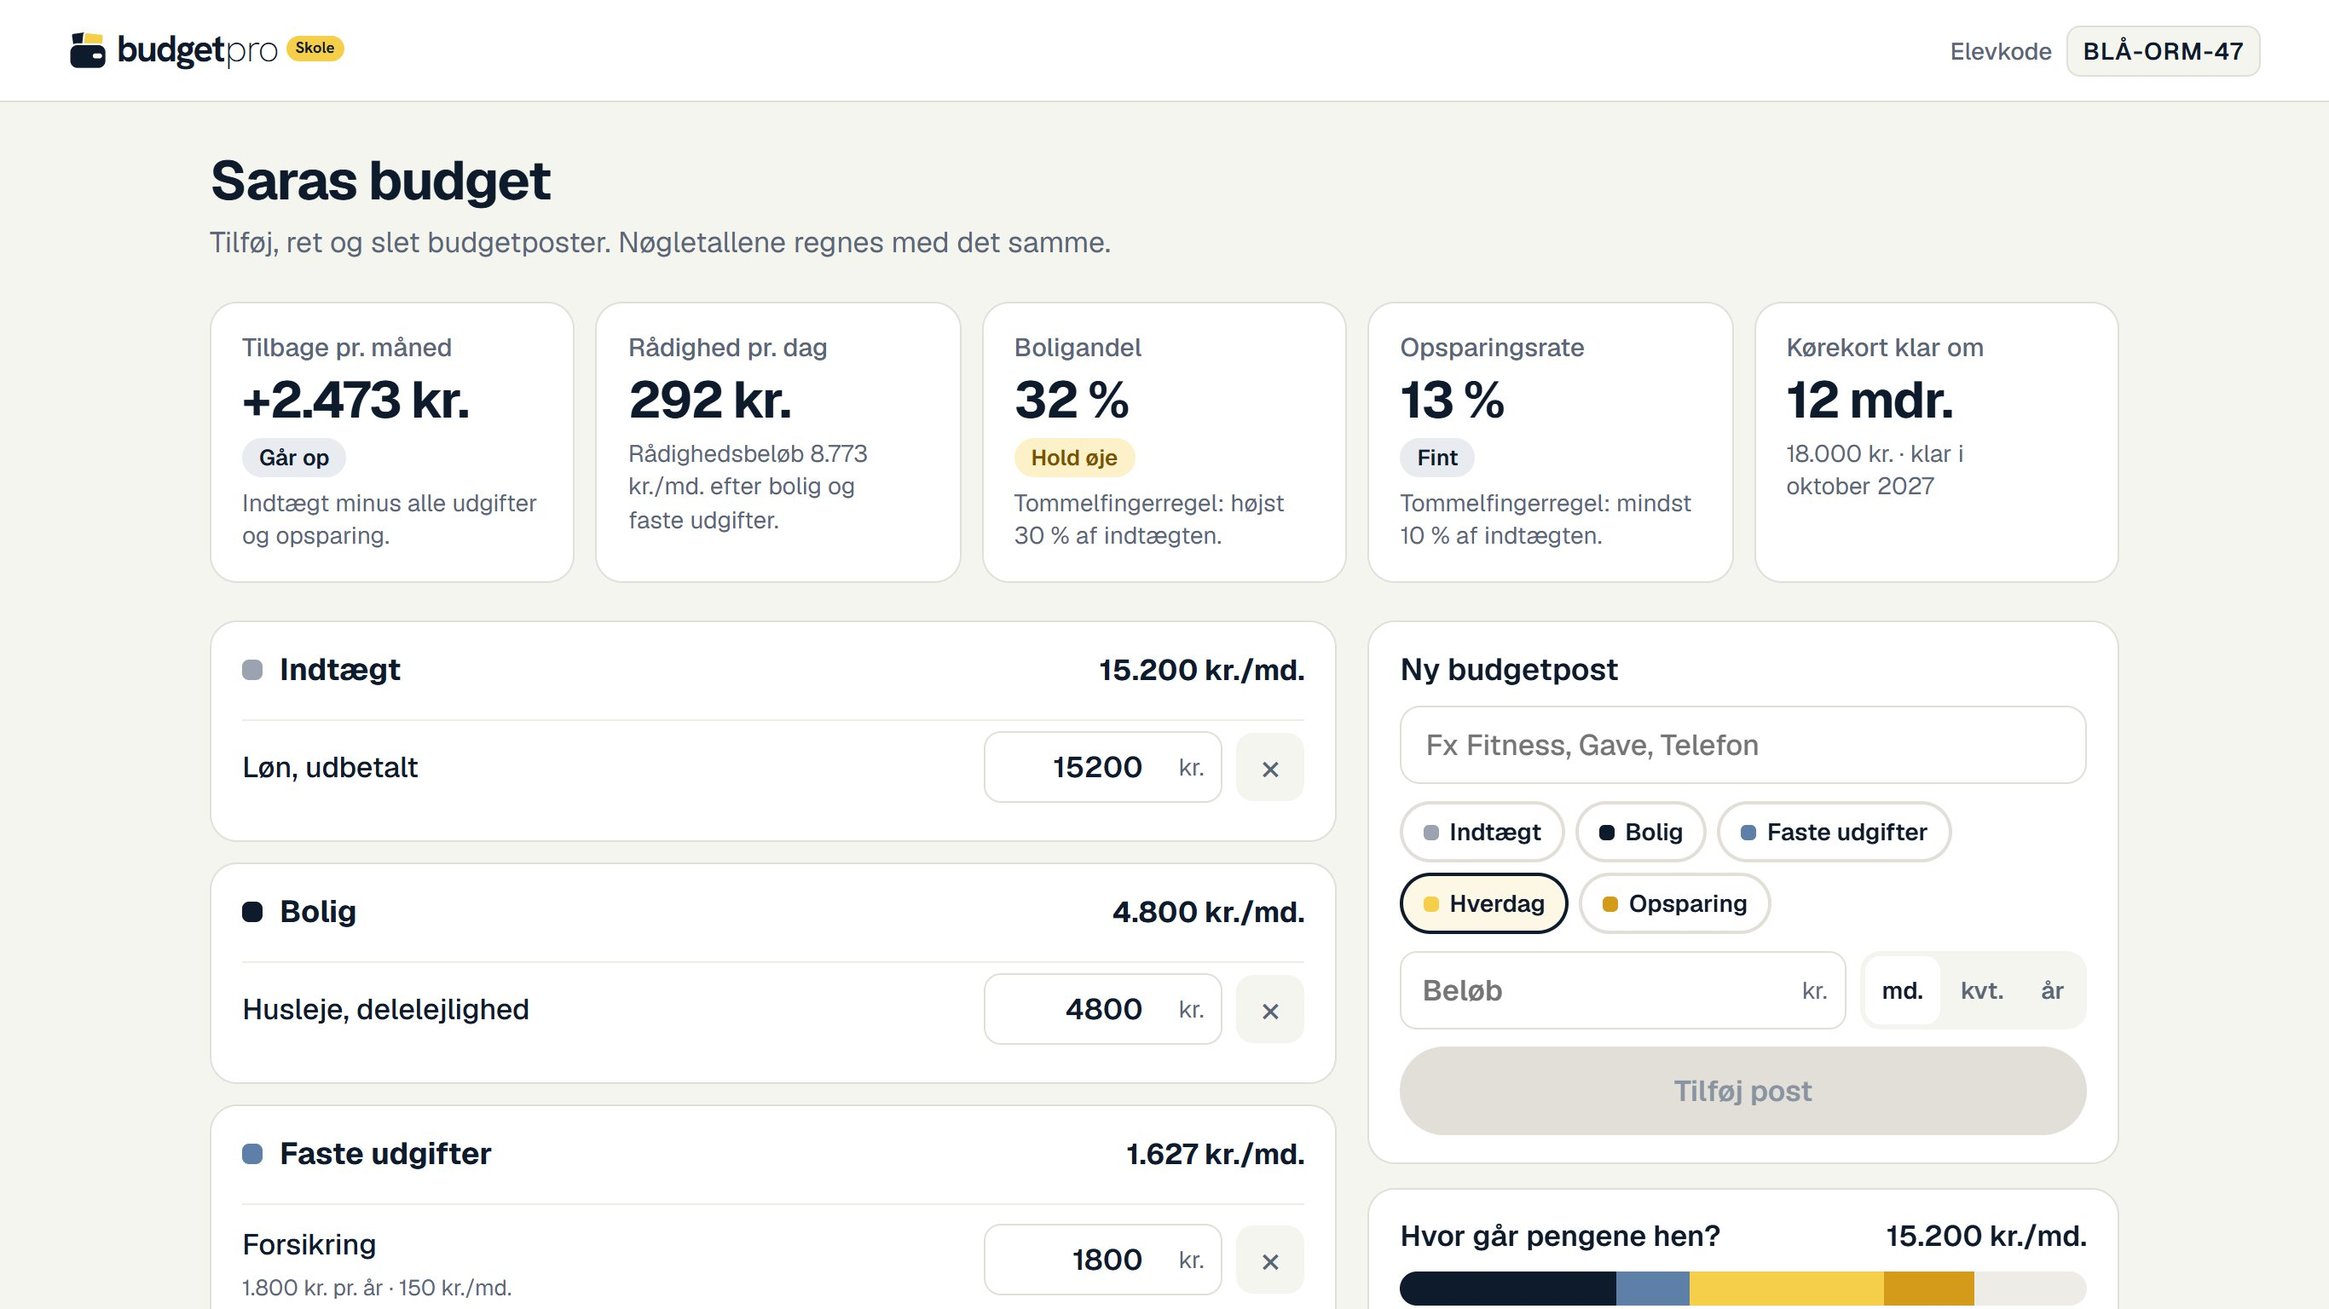
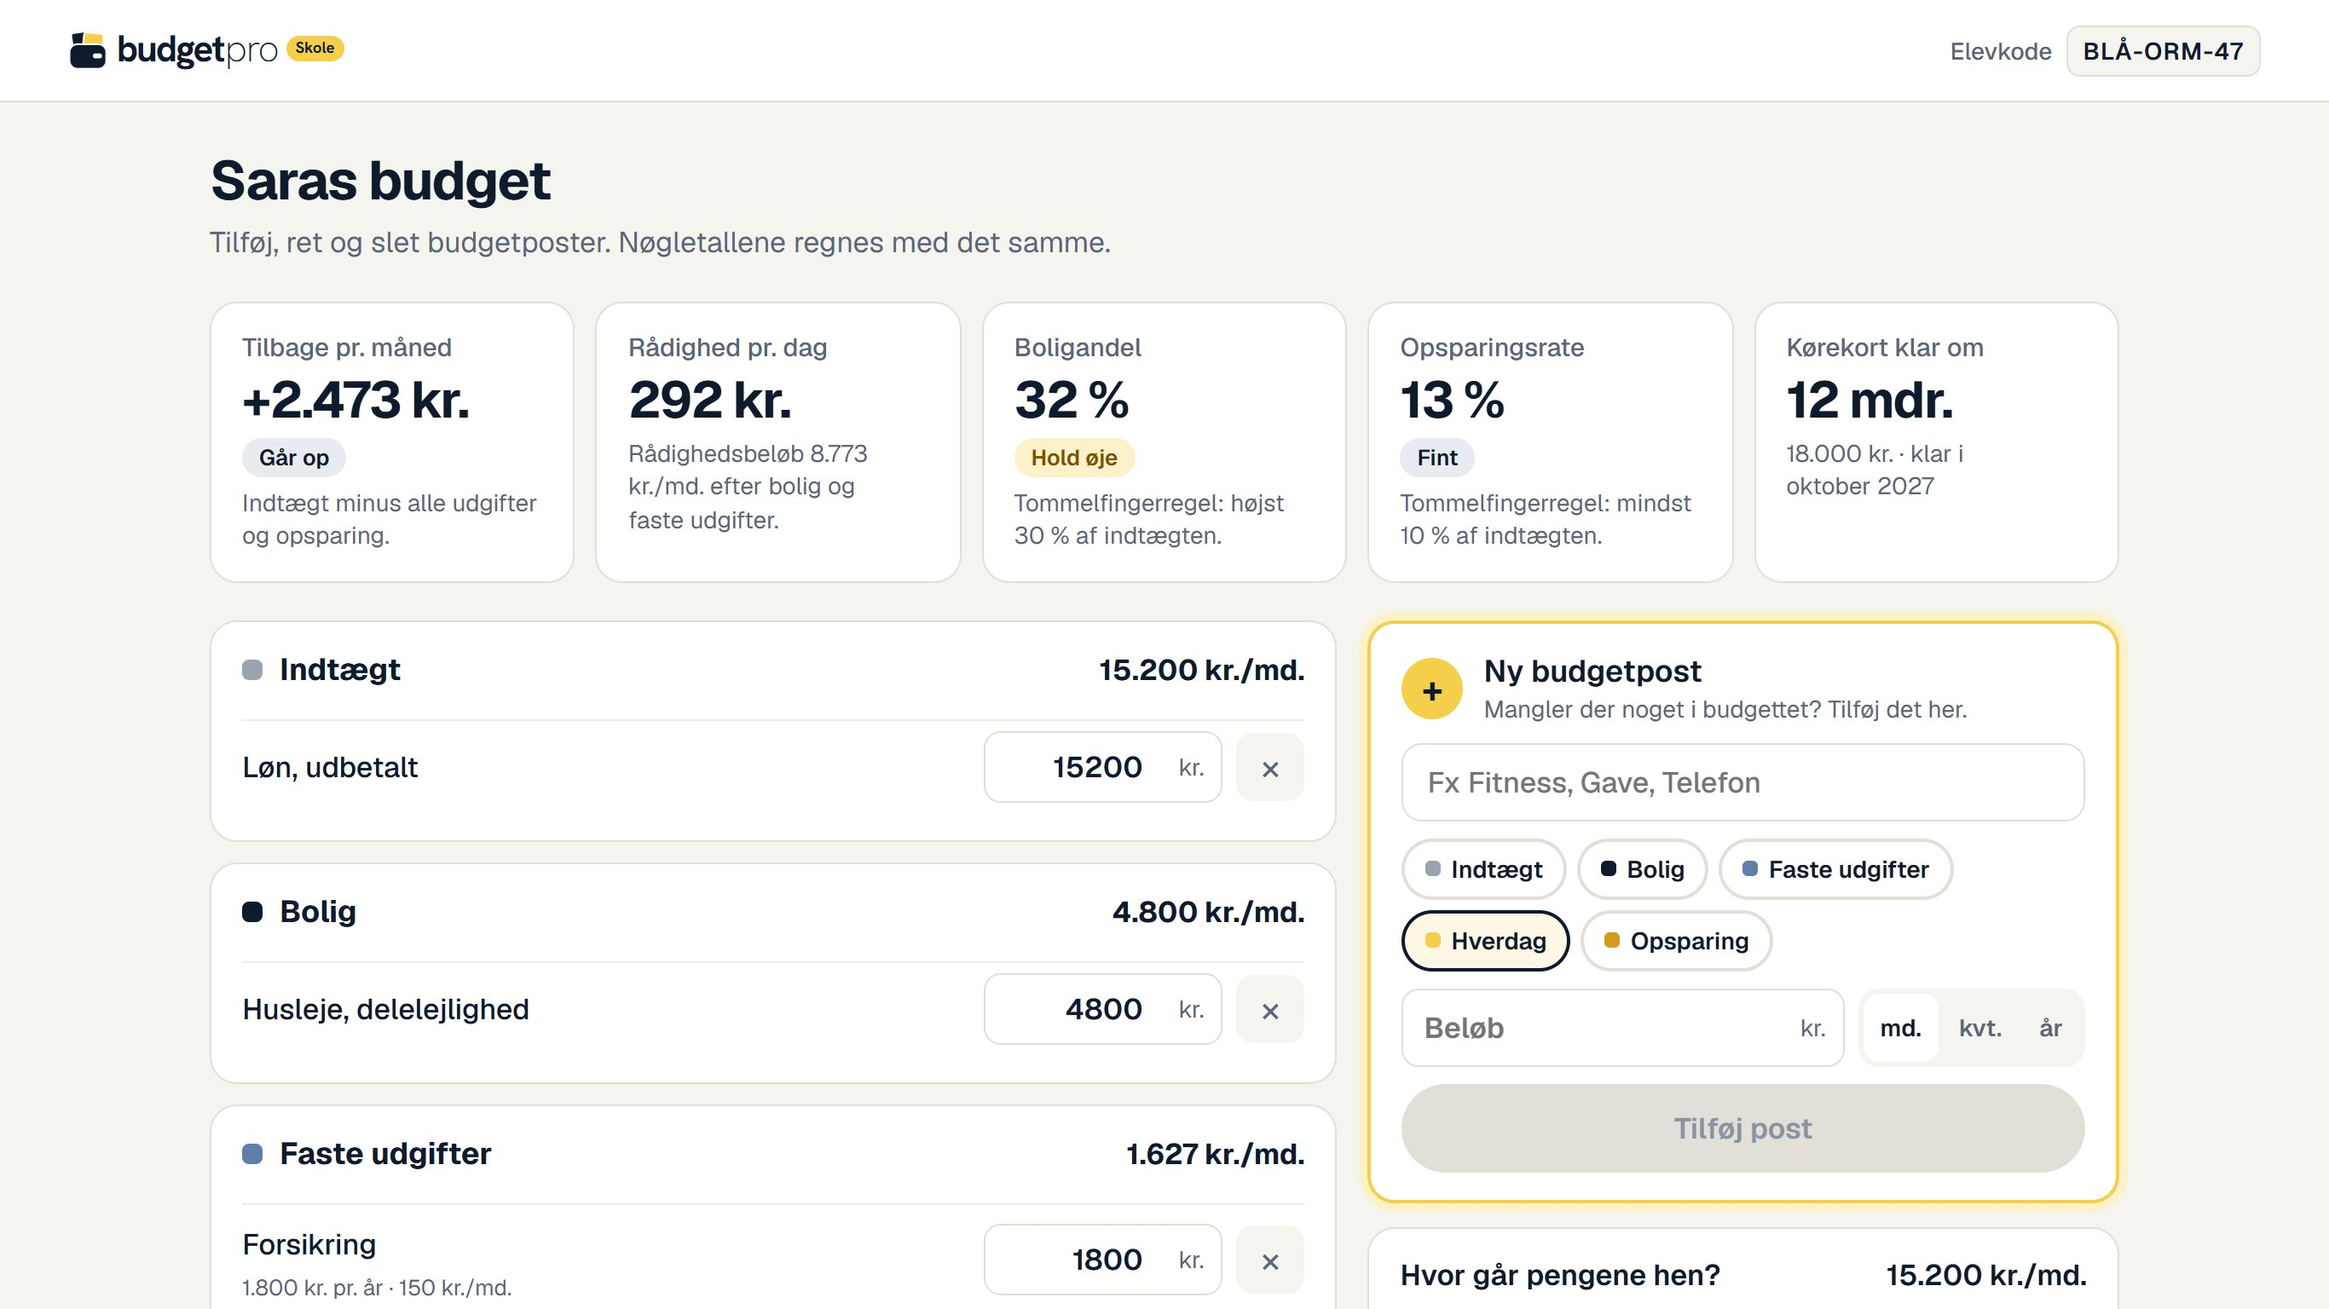
Skole: go back from the summary, precise reflection questions, AM-bidrag for under 18
- Summary gets "Gå tilbage og ret dine valg", back into the steps (also after logging in again)
- Step dots: circles sit above the connecting line, visited steps get a navy ring
- Reflection questions ask for amounts in kr. and percent (incl. "Kan det gå hurtigere?")
- Pay slip note, teacher's key and glossary: under 18 pays no AM-bidrag (from 2026)
- "Ny budgetpost" card in Mit budget is highlighted in solgul with a hint line

Changed region(s): [[0.56, 0.4688, 0.9334, 1.0]]

diff --git a/lib/skole.ts b/lib/skole.ts
@@ -75,13 +75,13 @@ export interface Step {
 export function steps(c: Case): Step[] {
   return [
     { short: "Fremtidsperson", q: "Mød din fremtidsperson" },
-    { short: "Indtægt", q: `Hvor mange penge får ${c.name} udbetalt?`, fact: "Man kan kun bruge de penge, der kommer ind på kontoen. Skat og AM-bidrag trækkes fra, før lønnen bliver udbetalt.", refl: "Hvor stor en del af lønnen gik til skat?" },
-    { short: "Bolig", q: `Hvor skal ${c.name} bo?`, fact: "Boligen er som regel den største faste udgift og svær at ændre hurtigt. Derfor vælger man den først.", refl: "Hvad fik du for at betale mere?" },
-    { short: "Faste udgifter", q: `Hvad betaler ${c.name} hver måned?`, fact: "Faste udgifter kommer uanset hvad. Dem skal man kende, før man ved, hvad der er tilbage.", refl: `Hvilke kunne ${c.name} undvære?` },
-    { short: "Mad og hverdag", q: `Hvordan vil ${c.name} leve i hverdagen?`, fact: "Det, der er tilbage efter de faste udgifter, er rådighedsbeløbet. Det skal række til hverdagen, og det er det tal, banken kigger på.", refl: "Hvad er et behov, og hvad er et ønske?" },
-    { short: "Opsparing", q: `Hvordan når ${c.name} sin drøm?`, fact: "Uforudsete udgifter kommer altid. Sparer man op først, når man sine mål, og en buffer betyder, at en uventet regning ikke bliver et lån.", refl: "Kan det gå hurtigere?" },
-    { short: "Går det op?", q: `Har ${c.name} penge nok?`, fact: "Et budget, der ikke går op, bliver betalt med lån eller kreditkort, og det koster renter. Det er bedre at prioritere nu.", refl: "Hvad valgte du at ændre?" },
-    { short: "Hvad nu hvis?", q: "Hvad sker der, hvis …?", fact: "Livet ændrer sig. Et budget er en plan, der skal kunne tilpasses, ikke et regnestykke, man laver én gang.", refl: "Hvilket scenarie rammer hårdest?" },
+    { short: "Indtægt", q: `Hvor mange penge får ${c.name} udbetalt?`, fact: "Man kan kun bruge de penge, der kommer ind på kontoen. Skat og AM-bidrag trækkes fra, før lønnen bliver udbetalt.", refl: "Hvor stor en del af lønnen gik til skat og AM-bidrag? Svar i kr. og i procent af lønnen før skat." },
+    { short: "Bolig", q: `Hvor skal ${c.name} bo?`, fact: "Boligen er som regel den største faste udgift og svær at ændre hurtigt. Derfor vælger man den først.", refl: `Hvad fik ${c.name} ud af den bolig, du valgte? Hvor mange kr. om måneden koster den mere end den billigste?` },
+    { short: "Faste udgifter", q: `Hvad betaler ${c.name} hver måned?`, fact: "Faste udgifter kommer uanset hvad. Dem skal man kende, før man ved, hvad der er tilbage.", refl: `Hvilke faste udgifter kunne ${c.name} undvære, og hvor mange kr. om måneden ville det spare?` },
+    { short: "Mad og hverdag", q: `Hvordan vil ${c.name} leve i hverdagen?`, fact: "Det, der er tilbage efter de faste udgifter, er rådighedsbeløbet. Det skal række til hverdagen, og det er det tal, banken kigger på.", refl: "Nævn et behov og et ønske i hverdagen. Hvor mange kr. om måneden koster ønsket?" },
+    { short: "Opsparing", q: `Hvordan når ${c.name} sin drøm?`, fact: "Uforudsete udgifter kommer altid. Sparer man op først, når man sine mål, og en buffer betyder, at en uventet regning ikke bliver et lån.", refl: `Hvor mange kr. mere om måneden skal ${c.name} spare for at nå sin drøm 3 måneder hurtigere? Hvor i budgettet kan pengene komme fra?` },
+    { short: "Går det op?", q: `Har ${c.name} penge nok?`, fact: "Et budget, der ikke går op, bliver betalt med lån eller kreditkort, og det koster renter. Det er bedre at prioritere nu.", refl: "Hvad ændrede du for at få budgettet til at gå op, og hvor mange kr. om måneden gav det? Gik det op med det samme, så skriv, hvor mange kr. der var tilbage." },
+    { short: "Hvad nu hvis?", q: "Hvad sker der, hvis …?", fact: "Livet ændrer sig. Et budget er en plan, der skal kunne tilpasses, ikke et regnestykke, man laver én gang.", refl: `Hvilket scenarie rammer ${c.name} hårdest, og hvor mange kr. om måneden ændrer det budgettet?` },
   ];
 }
 

diff --git a/lib/skole-materiale.ts b/lib/skole-materiale.ts
@@ -35,7 +35,7 @@ export interface Lesson {
 }
 
 const pct = (a: number, b: number) => `${Math.round((a / b) * 1000) / 10} %`.replace(".", ",");
-const refl = (step: number) => steps(CASES[0]!)[step - 1]!.refl!.replace(CASES[0]!.name, "din person");
+const refl = (step: number) => steps(CASES[0]!)[step - 1]!.refl!.replaceAll(CASES[0]!.name, "din person");
 const fasteAll = FASTE.reduce((a, f) => a + f.amt, 0);
 const mid = BOLIG[1];
 /** "Tømrerlærling" → "tømrerlærling", but "SU" stays. */
@@ -64,7 +64,7 @@ export const LESSONS: Lesson[] = [
     talk: ["Hvad betaler skatten til? Nævn tre ting, I selv bruger.", "Hvorfor betaler Mira mindre i skat end Jonas?", "Hvad overraskede jer mest ved lønsedlen?"],
     key: {
       title: "Lønsedlen",
-      note: "Skat og AM-bidrag står samlet på lønsedlen. AM-bidrag er 8 % af lønnen før skat.",
+      note: "Skat og AM-bidrag står samlet på lønsedlen. AM-bidrag er 8 % af lønnen før skat. Unge under 18 år betaler ikke AM-bidrag (fra 2026, til og med det år, man fylder 17).",
       cols: ["Person", "Før skat", "Skat og AM", "Udbetalt", "Andel", "AM-bidrag"],
       rows: CASES.map((c) => [caseRow(c), kr(c.gross), kr(c.tax), kr(c.net), pct(c.tax, c.gross), kr(c.gross * 0.08)]),
     },
@@ -210,7 +210,7 @@ export const LESSONS: Lesson[] = [
           cols: ["Ændring pr. md.", "Tilbage pr. md."],
           rows: ["Huslejen stiger 10 %", `Mister jobbet (indtægt ${kr(JOBLESS_INCOME)})`, "Flytter sammen (husleje halveres)", `Køber brugt bil på lån (${kr(CAR_COST)}/md.)`],
         },
-        { kind: "lines", q: `${refl(8)} Hvorfor?`, lines: 2 },
+        { kind: "lines", q: refl(8), lines: 3 },
         {
           kind: "fields",
           q: "Nøgletal fra Mit budget",
@@ -272,7 +272,7 @@ export const COURSE = {
     "budgetpro gemmer ingen navne. Eleverne bruger en kode, og deres valg og svar slettes sammen med klassen, når koderne udløber efter 30, 60 eller 90 dage.",
   glossary: [
     { t: "Løn før skat", d: "Det, man tjener, før skat og AM-bidrag er trukket." },
-    { t: "AM-bidrag", d: "Arbejdsmarkedsbidrag: 8 % af lønnen, som går til staten." },
+    { t: "AM-bidrag", d: "Arbejdsmarkedsbidrag: 8 % af lønnen, som går til staten. Unge under 18 år betaler det ikke." },
     { t: "Udbetalt løn", d: "Det, der kommer ind på kontoen." },
     { t: "Faste udgifter", d: "Udgifter, der kommer hver måned uanset hvad, fx forsikring og mobil." },
     { t: "Rådighedsbeløb", d: "Det, der er tilbage efter bolig og faste udgifter. Det skal række til hverdagen." },

diff --git a/components/skole/skole.module.css b/components/skole/skole.module.css
@@ -89,8 +89,9 @@
 .dotBtn:not(:disabled) { cursor: pointer; }
 .dotLine { position: absolute; top: 13px; right: 50%; width: 100%; height: 2px; background: var(--rule); }
 .dotLine[data-on] { background: var(--navy); }
-.dot { position: relative; width: 28px; height: 28px; border-radius: 50%; border: 2px solid var(--rule); background: #fff; color: var(--ink-2); box-sizing: border-box; display: flex; align-items: center; justify-content: center; font-weight: 600; font-size: 13px; }
+.dot { position: relative; z-index: 1; width: 28px; height: 28px; border-radius: 50%; border: 2px solid var(--rule); background: #fff; color: var(--ink-2); box-sizing: border-box; display: flex; align-items: center; justify-content: center; font-weight: 600; font-size: 13px; }
 .dot[data-state="done"] { background: var(--sun); border-color: var(--sun); color: var(--navy); }
+.dot[data-state="seen"] { border-color: var(--navy); color: var(--navy); }
 .dot[data-state="cur"] { background: var(--navy); border-color: var(--navy); color: #fff; }
 .dotLabel { font-weight: 500; font-size: 13px; color: var(--ink-2); white-space: nowrap; }
 .dotLabel[data-cur] { font-weight: 700; color: var(--ink); }
@@ -236,6 +237,10 @@
 .amtBox { display: flex; align-items: center; border: 1px solid var(--rule); border-radius: 10px; padding: 0 10px; height: 42px; box-sizing: border-box; background: #fff; }
 .amtBox input { width: 100%; height: 100%; min-width: 0; border: 0; outline: none; font-weight: 600; font-size: 17px; text-align: right; background: transparent; color: var(--ink); }
 .amtBox span { font-size: 14px; color: var(--ink-2); margin-left: 4px; }
+.newCard { border: 2px solid var(--sun); box-shadow: 0 0 0 5px var(--sun-bg); }
+.newHead { display: flex; align-items: center; gap: 12px; }
+.newPlus { width: 36px; height: 36px; flex-shrink: 0; border-radius: 50%; background: var(--sun); color: var(--ink); display: grid; place-items: center; font-weight: 700; font-size: 22px; line-height: 1; }
+.newHint { margin: 2px 0 0; font-size: 14px; line-height: 1.35; color: var(--ink-2); }
 .newAmt { display: flex; gap: 8px; }
 .newAmt .amtBox { flex: 1; height: 46px; }
 .newAmt .amtBox input { text-align: left; }

diff --git a/components/skole/Summary.tsx b/components/skole/Summary.tsx
@@ -11,13 +11,15 @@ interface Props {
   expires: string | null;
   onRefl: (step: number, text: string) => void;
   onBudget: () => void;
+  /** Back into the steps to change the choices. */
+  onEdit: () => void;
   onPdf: () => void;
   onRestart: () => void;
   /** Where "Prøv budgetpro" goes (the main site). */
   mainSite: string;
 }
 
-export function Summary({ code, flow, refl, expires, onRefl, onBudget, onPdf, onRestart, mainSite }: Props) {
+export function Summary({ code, flow, refl, expires, onRefl, onBudget, onEdit, onPdf, onRestart, mainSite }: Props) {
   const c = caseById(flow.caseId);
   const t = totals(flow);
   const now = new Date();
@@ -62,6 +64,9 @@ export function Summary({ code, flow, refl, expires, onRefl, onBudget, onPdf, on
         </button>
         <button type="button" className={`${s.btn} ${s.btnPrimary}`} onClick={onPdf}>
           Gem som PDF
+        </button>
+        <button type="button" className={s.btn} onClick={onEdit}>
+          Gå tilbage og ret dine valg
         </button>
         <button type="button" className={s.btn} onClick={onRestart}>
           Start forfra

diff --git a/components/skole/MyBudget.tsx b/components/skole/MyBudget.tsx
@@ -119,13 +119,19 @@ export function MyBudget({ flow, update, onBack }: { flow: Flow; update: Update;
 
         <div className={s.side}>
           <form
-            className={s.card}
+            className={`${s.card} ${s.newCard}`}
             onSubmit={(e) => {
               e.preventDefault();
               addPost();
             }}
           >
-            <span className={s.cardTitle}>Ny budgetpost</span>
+            <div className={s.newHead}>
+              <span className={s.newPlus} aria-hidden="true">+</span>
+              <div>
+                <span className={s.cardTitle}>Ny budgetpost</span>
+                <p className={s.newHint}>Mangler der noget i budgettet? Tilføj det her.</p>
+              </div>
+            </div>
             <input className={s.input} value={nf.name} maxLength={40} onChange={(e) => setNf((x) => ({ ...x, name: e.target.value }))} placeholder="Fx Fitness, Gave, Telefon" aria-label="Navn på ny post" />
             <div className={s.chips} role="group" aria-label="Kategori">
               {CATS.map((cat) => (

diff --git a/lib/skole.test.ts b/lib/skole.test.ts
@@ -101,7 +101,7 @@ describe("skole money", () => {
     expect(s).toHaveLength(8);
     expect(s[2]?.q).toBe("Hvor skal Jonas bo?");
     expect(s[0]?.fact).toBeUndefined();
-    expect(s[7]?.refl).toBe("Hvilket scenarie rammer hårdest?");
+    expect(s[7]?.refl).toBe("Hvilket scenarie rammer Jonas hårdest, og hvor mange kr. om måneden ændrer det budgettet?");
   });
 });
 
@@ -219,7 +219,7 @@ describe("class overview", () => {
       { label: "Hvad nu hvis", value: "Huslejen stiger 10 %" },
     ]);
     expect(d.answers).toHaveLength(7);
-    expect(d.answers[0]).toEqual({ q: "Hvor stor en del af lønnen gik til skat?", a: "En tredjedel" });
+    expect(d.answers[0]).toEqual({ q: "Hvor stor en del af lønnen gik til skat og AM-bidrag? Svar i kr. og i procent af lønnen før skat.", a: "En tredjedel" });
     expect(d.answers[1]?.a).toBe("");
     expect(pupilDetail("BLÅ-ORM-47", null, {})).toMatchObject({ status: "Ikke startet", choices: [], answers: [] });
   });

diff --git a/lib/skole-store.test.ts b/lib/skole-store.test.ts
@@ -74,7 +74,7 @@ describe("skole store", () => {
     expect(view.stats).toMatchObject({ started: 1, finished: 1, finishedOk: 1, topCase: "Sara", topBolig: { label: "Delelejlighed", pct: 100 } });
 
     const pupil = await classPupil(cls, code, dir);
-    expect(pupil?.answers[0]).toEqual({ q: "Hvor stor en del af lønnen gik til skat?", a: "En tredjedel" });
+    expect(pupil?.answers[0]).toEqual({ q: "Hvor stor en del af lønnen gik til skat og AM-bidrag? Svar i kr. og i procent af lønnen før skat.", a: "En tredjedel" });
     expect(pupil?.choices.find((c) => c.label === "Bolig")?.value).toBe("Delelejlighed, 4.800 kr.");
     expect(await classPupil(cls, other, dir)).toBeNull();
   });

diff --git a/components/skole/FlowView.tsx b/components/skole/FlowView.tsx
@@ -45,7 +45,7 @@ export function FlowView({ flow, update, go, reveal, onBack, onFinish }: Props) 
                 onClick={() => go(n)}
               >
                 {n > 1 && <span className={s.dotLine} data-on={n <= flow.maxStep || undefined} />}
-                <span className={s.dot} data-state={isCur ? "cur" : done ? "done" : undefined}>
+                <span className={s.dot} data-state={isCur ? "cur" : done ? "done" : n <= flow.maxStep ? "seen" : undefined}>
                   {done ? <Check size={14} color="#0E1B2C" /> : n}
                 </span>
                 <span className={s.dotLabel} data-cur={isCur || undefined}>

diff --git a/components/skole/Steps.tsx b/components/skole/Steps.tsx
@@ -95,7 +95,7 @@ function Pay({ c, reveal }: { c: Case; reveal: number }) {
       ))}
       {reveal >= 3 && (
         <span className={s.note}>
-          <b>AM-bidrag</b> er 8 % af lønnen og går til staten. Skatten afhænger af, hvor meget man tjener.
+          <b>AM-bidrag</b> er 8 % af lønnen og går til staten. Skatten afhænger af, hvor meget man tjener. Unge under 18 år betaler ikke AM-bidrag. Fra 2026 slipper man for det til og med det år, man fylder 17.
         </span>
       )}
     </div>

diff --git a/lib/skole-materiale.test.ts b/lib/skole-materiale.test.ts
@@ -13,7 +13,7 @@ describe("skole-materiale", () => {
 
   it("asks the pupils' own reflection questions", () => {
     const sheetText = JSON.stringify(LESSONS.map((l) => l.sheet));
-    for (const n of [3, 8]) expect(sheetText).toContain(steps(CASES[0]!)[n - 1]!.refl!);
+    for (const n of [3, 8]) expect(sheetText).toContain(steps(CASES[0]!)[n - 1]!.refl!.replaceAll(CASES[0]!.name, "din person"));
   });
 
   it("gives the teacher the same numbers as the pupils' steps", () => {

diff --git a/components/skole/StudentApp.tsx b/components/skole/StudentApp.tsx
@@ -149,6 +149,7 @@ export function StudentApp() {
             update((f) => ({ posts: f.posts ?? seedPosts(f) }));
             setScreen("budget");
           }}
+          onEdit={() => go(1)}
           onPdf={() => summaryPdf(code, flow, refl).catch(() => showToast("PDF’en kunne ikke laves. Prøv igen."))}
           onRestart={restart}
           mainSite={mainSite}
